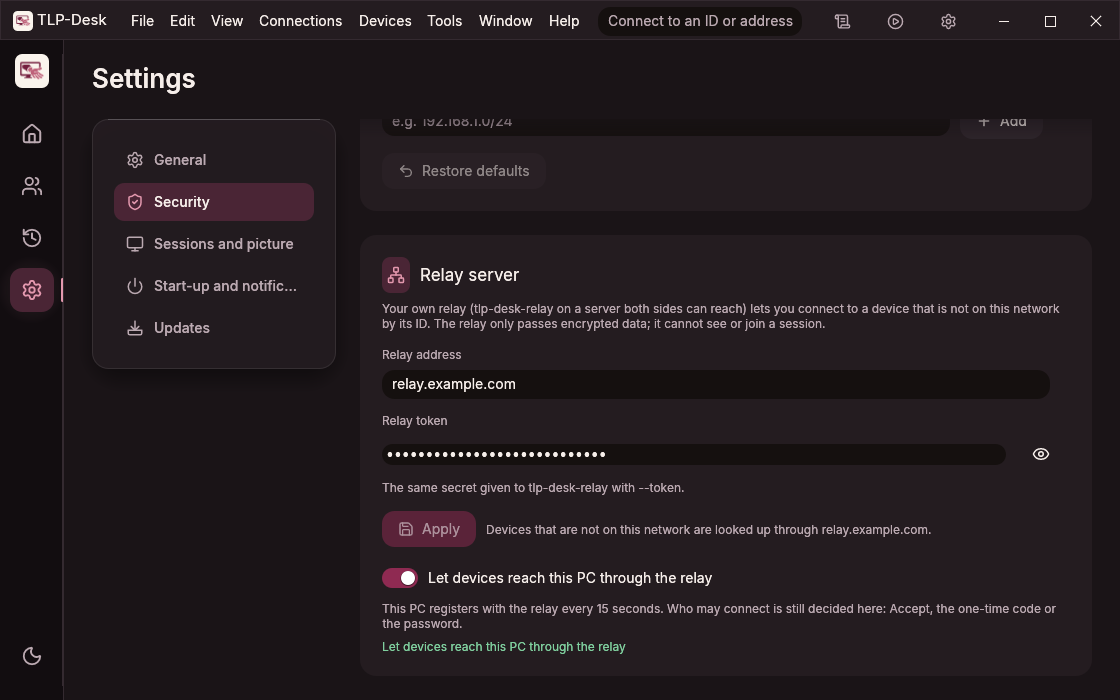
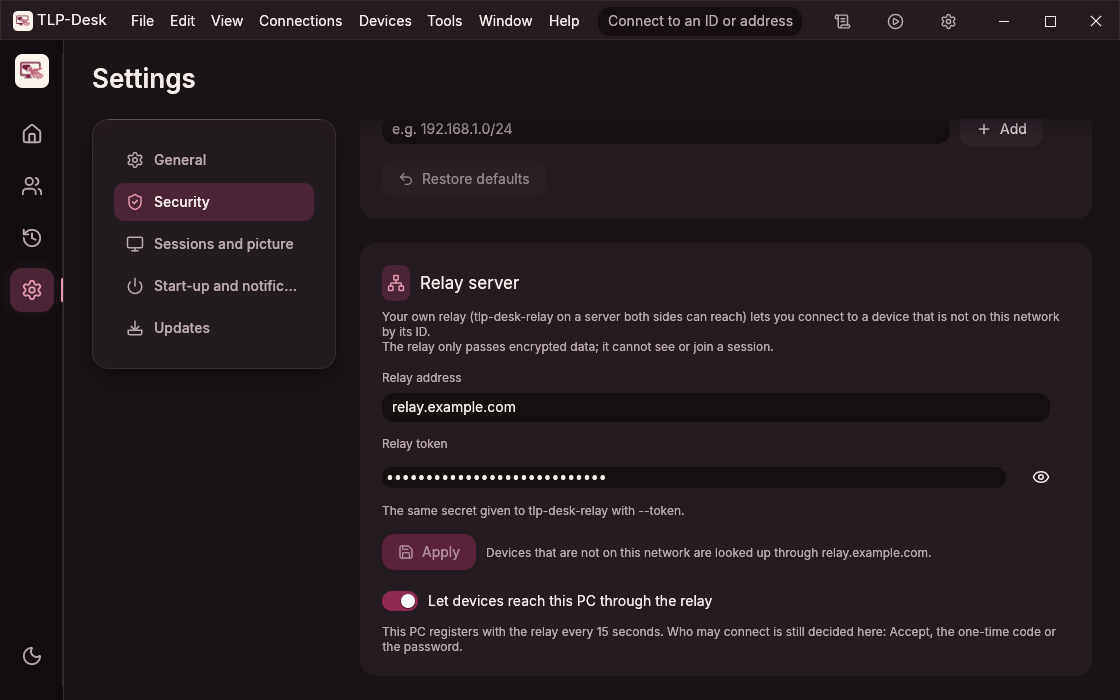
TLP-app: relay card: Arabic hint on logical lines, no duplicate status
The Arabic relay hint was one long line and ran past the card (display
strings are pre-reordered, so they are broken into lines in the source
instead of wrapped by egui). The green line under the switch repeated the
switch's own label and is gone.

Claude-Session: https://claude.ai/code/session_01FPz4Encey5ofBaHc39iYmM

diff --git a/crates/tlp-desk-app/src/i18n/mod.rs b/crates/tlp-desk-app/src/i18n/mod.rs
@@ -448,7 +448,7 @@ strings! {
     SettingsAllowList => "Allowed networks", "الشبكات المسموح بها";
     // Relay server (TLP-relay)
     SettingsRelay => "Relay server", "الخادم الوسيط";
-    RelayHint => "Your own relay (tlp-desk-relay on a server both sides can reach) lets you connect to a device that is not on this network by its ID. The relay only passes encrypted data; it cannot see or join a session.", "خادم وسيط خاص بك (\u{2066}tlp-desk-relay\u{2069} على خادم يصل إليه الطرفان) يتيح لك الاتصال بجهاز خارج هذه الشبكة عبر معرّفه. الوسيط يمرّر بيانات مشفّرة فقط ولا يستطيع رؤية الجلسة أو الدخول إليها.";
+    RelayHint => "Your own relay (tlp-desk-relay on a server both sides can reach) lets you connect to a device that is not on this network by its ID.\nThe relay only passes encrypted data; it cannot see or join a session.", "خادم وسيط خاص بك يتيح لك الاتصال بجهاز خارج هذه الشبكة عبر معرّفه\n(برنامج tlp-desk-relay على خادم يصل إليه الطرفان).\nالوسيط يمرّر بيانات مشفّرة فقط ولا يستطيع رؤية الجلسة أو الدخول إليها.";
     RelayAddress => "Relay address", "عنوان الوسيط";
     RelayAddressHint => "e.g. relay.example.com or 203.0.113.5:47402", "مثال: \u{2066}relay.example.com\u{2069} أو \u{2066}203.0.113.5:47402\u{2069}";
     RelayToken => "Relay token", "رمز الوسيط";

diff --git a/crates/tlp-desk-app/src/ui/settings/relay.rs b/crates/tlp-desk-app/src/ui/settings/relay.rs
@@ -3,7 +3,7 @@
 //! applied with one button (a half-typed address must not be dialed); the switch applies
 //! at once.
 
-use eframe::egui::{self, Align, RichText};
+use eframe::egui::{self, Align};
 
 use crate::app::App;
 use crate::i18n::S;
@@ -13,7 +13,6 @@ use crate::ui::{theme, widgets};
 impl App {
     pub(super) fn relay_card(&mut self, ui: &mut egui::Ui) {
         let tx = self.tx;
-        let dark = ui.visuals().dark_mode;
         if !self.settings_ui.relay_loaded {
             self.settings_ui.relay_address = self.settings.relay.address.clone();
             self.settings_ui.relay_token = self.settings.relay.token.clone();
@@ -100,13 +99,6 @@ impl App {
                     toggled = true;
                 }
                 ui.label(theme::caption(ui, tx.t(S::RelayReachableHint)));
-                if configured && self.settings.relay.reachable {
-                    ui.label(
-                        RichText::new(tx.t(S::RelayReachable))
-                            .small()
-                            .color(theme::success(dark)),
-                    );
-                }
             });
         });
         if apply {
